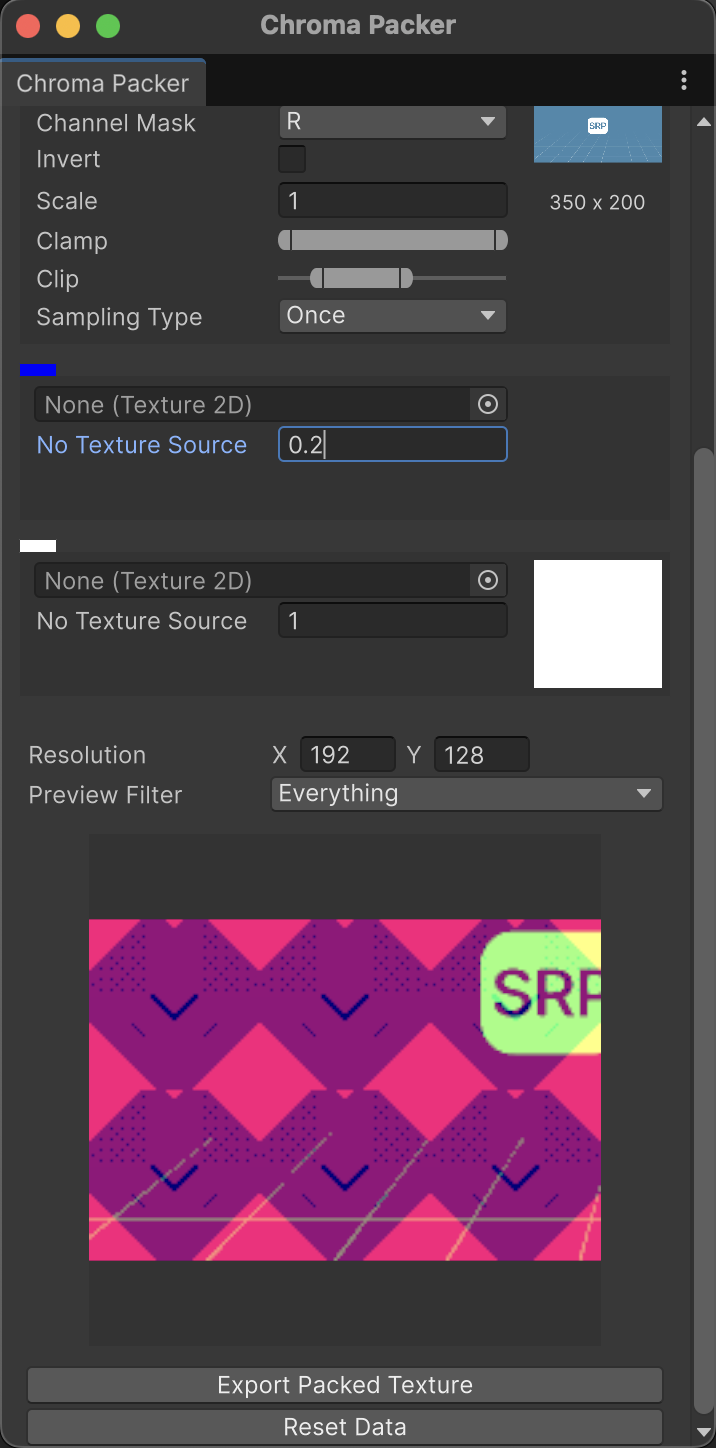
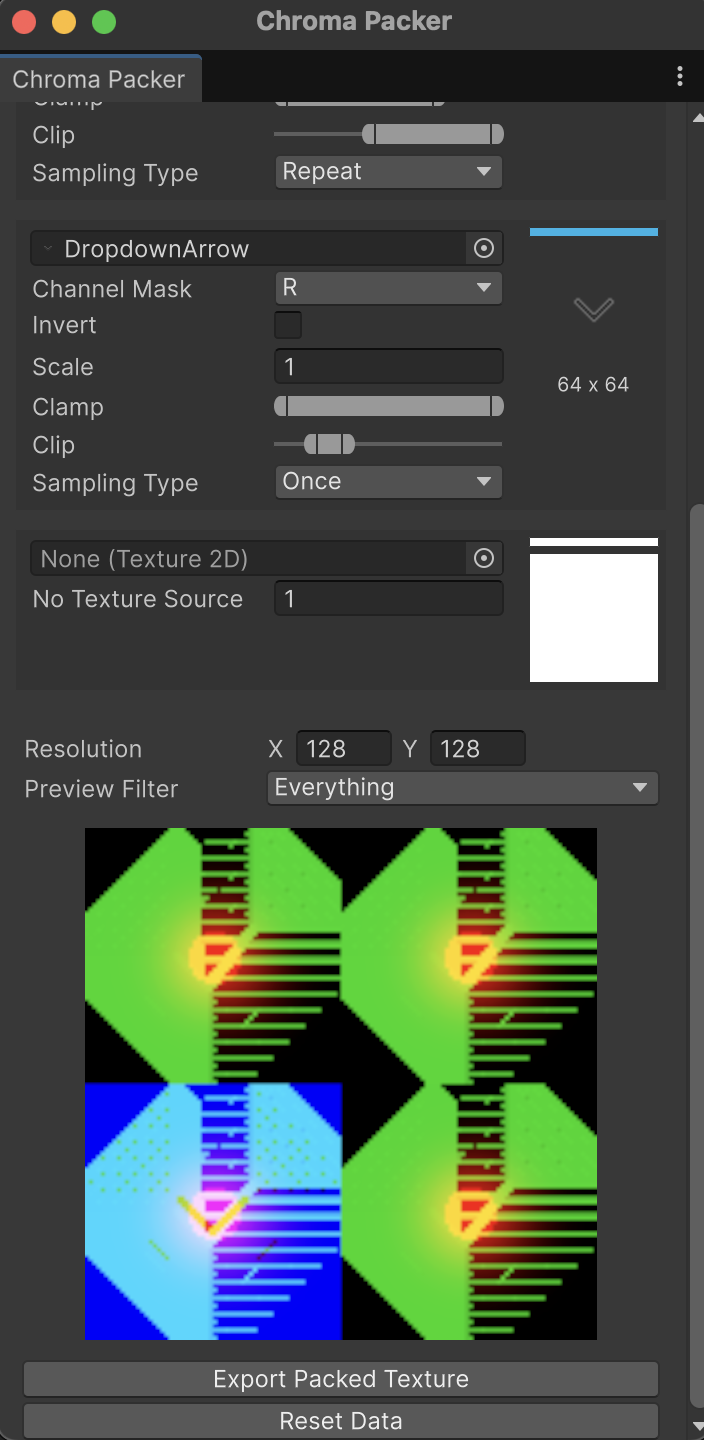
Collapse preview on empty mask

diff --git a/Editor/ChromaPackerEditor.cs b/Editor/ChromaPackerEditor.cs
@@ -124,6 +124,7 @@ namespace AmeWorks.ChromaPacker.Editor
                 var texture = _channelTextures[index];
                 
                 VisualElement topElement = new VisualElement();
+                topElement.style.marginTop = BASE_PADDING;
                 topElement.style.flexDirection = FlexDirection.Row;
                 topElement.style.minWidth = WINDOW_WIDTH - BASE_PADDING;
                 topElement.style.backgroundColor = new Color(0.2f, 0.2f, 0.2f);
@@ -263,24 +264,25 @@ namespace AmeWorks.ChromaPacker.Editor
                 verticalGroupRight.style.minHeight = 64;
                 verticalGroupRight.style.justifyContent = Justify.FlexStart;
                 
+                VisualElement colorStripElement = new VisualElement();
+                colorStripElement.style.minHeight = 4;
+                colorStripElement.style.minWidth = 64;
+                colorStripElement.style.maxWidth = 64;
+                colorStripElement.style.marginBottom = 4;
+                colorStripElement.style.backgroundColor = index switch
+                {
+                    1 => new Color(0.6f, 1, 0.1f),
+                    2 => new Color(0.1f, 0.7f, 0.9f),
+                    3 => Color.white,
+                    _ => new Color(1, 0.2f, 0.4f),
+                };
+                verticalGroupRight.Add(colorStripElement);
                 verticalGroupRight.Add(previewImage);
                 verticalGroupRight.Add(textureSizeLabel);
     
                 topElement.Add(verticalGroupLeft);
                 topElement.Add(verticalGroupRight);
 
-                VisualElement colorStripElement = new VisualElement();
-                colorStripElement.style.marginTop = BASE_PADDING;
-                colorStripElement.style.minHeight = 6;
-                colorStripElement.style.maxWidth = 18;
-                colorStripElement.style.backgroundColor = index switch
-                {
-                    1 => Color.green,
-                    2 => Color.blue,
-                    3 => Color.white,
-                    _ => Color.red,
-                };
-                parent.Add(colorStripElement);
                 parent.Add(topElement);
             }
         }
@@ -305,6 +307,7 @@ namespace AmeWorks.ChromaPacker.Editor
             previewFlagsField.RegisterValueChangedCallback(evt =>
             {
                 _previewMasking = (ChannelMask)evt.newValue;
+                _previewResultImage.SetVisibility((int)_previewMasking == 0 ? ElementVisibility.Collapsed : ElementVisibility.Visible);
                 _isRTDirty = true;
             });
 
@@ -319,6 +322,7 @@ namespace AmeWorks.ChromaPacker.Editor
                     backgroundColor = new Color(0.2f, 0.2f, 0.2f)
                 },
             };
+            previewResultImage.SetVisibility((int)_previewMasking == 0 ? ElementVisibility.Collapsed : ElementVisibility.Visible);
             _previewResultImage = previewResultImage;
             
             Button exportButton = new Button(ExportPackedTexture);
